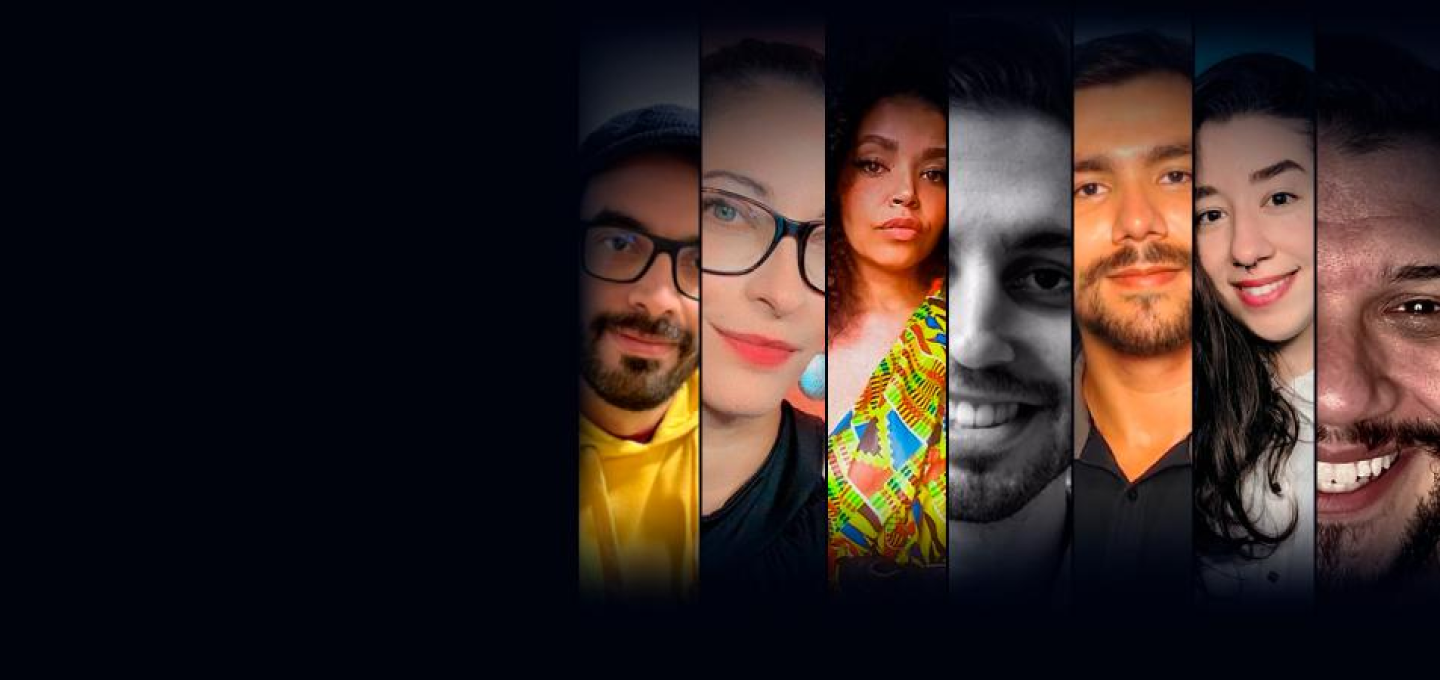
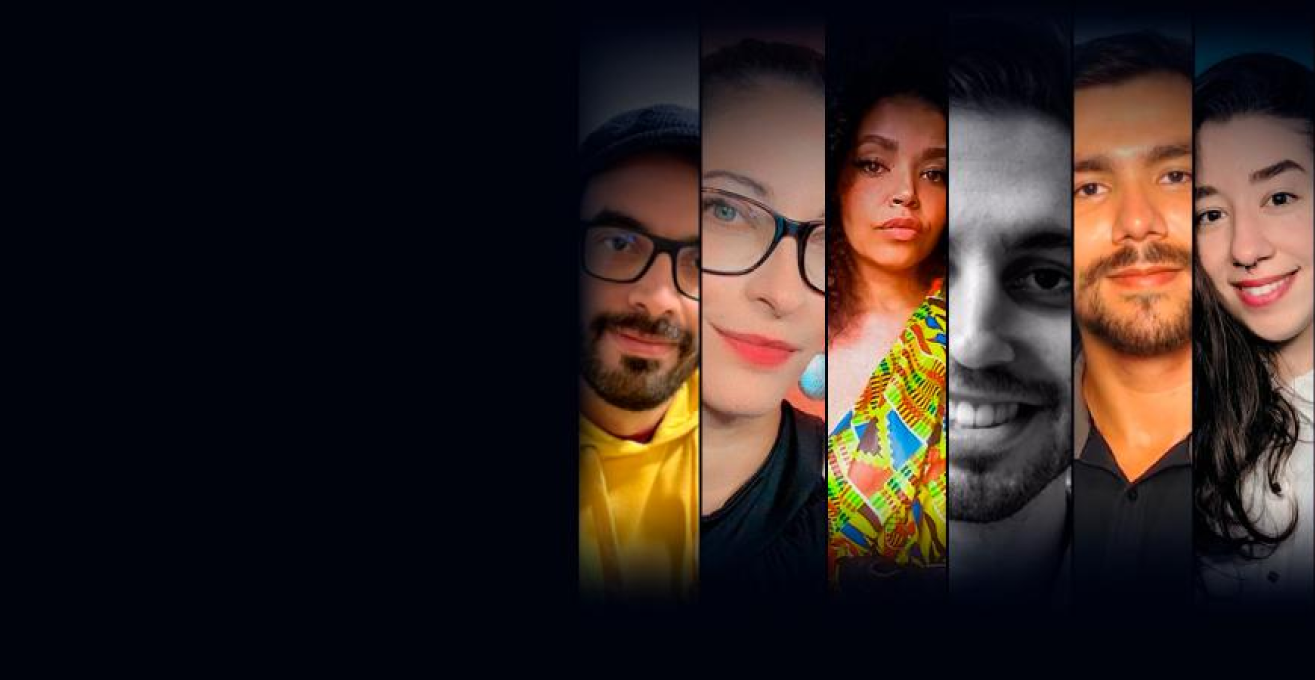
atualizado o alura-plus

diff --git a/ex03-alura-plus/index.html b/ex03-alura-plus/index.html
@@ -1,0 +1,17 @@
+<!DOCTYPE html>
+<html lang="pr-br">
+<head>
+    <meta charset="UTF-8">
+    <meta name="viewport" content="width=device-width, initial-scale=1.0">
+    <title>Alura Plus</title>
+    <link rel="stylesheet" href="style.css">
+</head>
+
+<body>
+    <section class="container principal">
+        <h1>Com o Combo+, você pode aproveitar a Alura+ e o Alura Língua por um preço único.</h1>
+        <img src="assets/Combo.png" alt="Alura+ Alura Língua">
+    </section>
+</body>
+
+</html> 

diff --git a/ex03-alura-plus/style.css b/ex03-alura-plus/style.css
@@ -1,0 +1,29 @@
+:root {
+    --branco-principal: #FFFFFF;
+    --cenza-secundario: #C0C0C0;
+    --botao-azul: #167BF7;
+    --cor-de-fundo: #00030C;
+}
+
+body {
+    background-color: var(--cor-de-fundo);
+    color: var(--branco-principal);
+}
+
+* {
+    margin: 0;
+    padding: 0;
+}
+
+.principal {
+    background-image: url(assets/Background.png);
+    background-repeat: no-repeat;
+    background-size: contain;
+
+
+}
+
+.container {
+    height: 100vh;
+
+}
